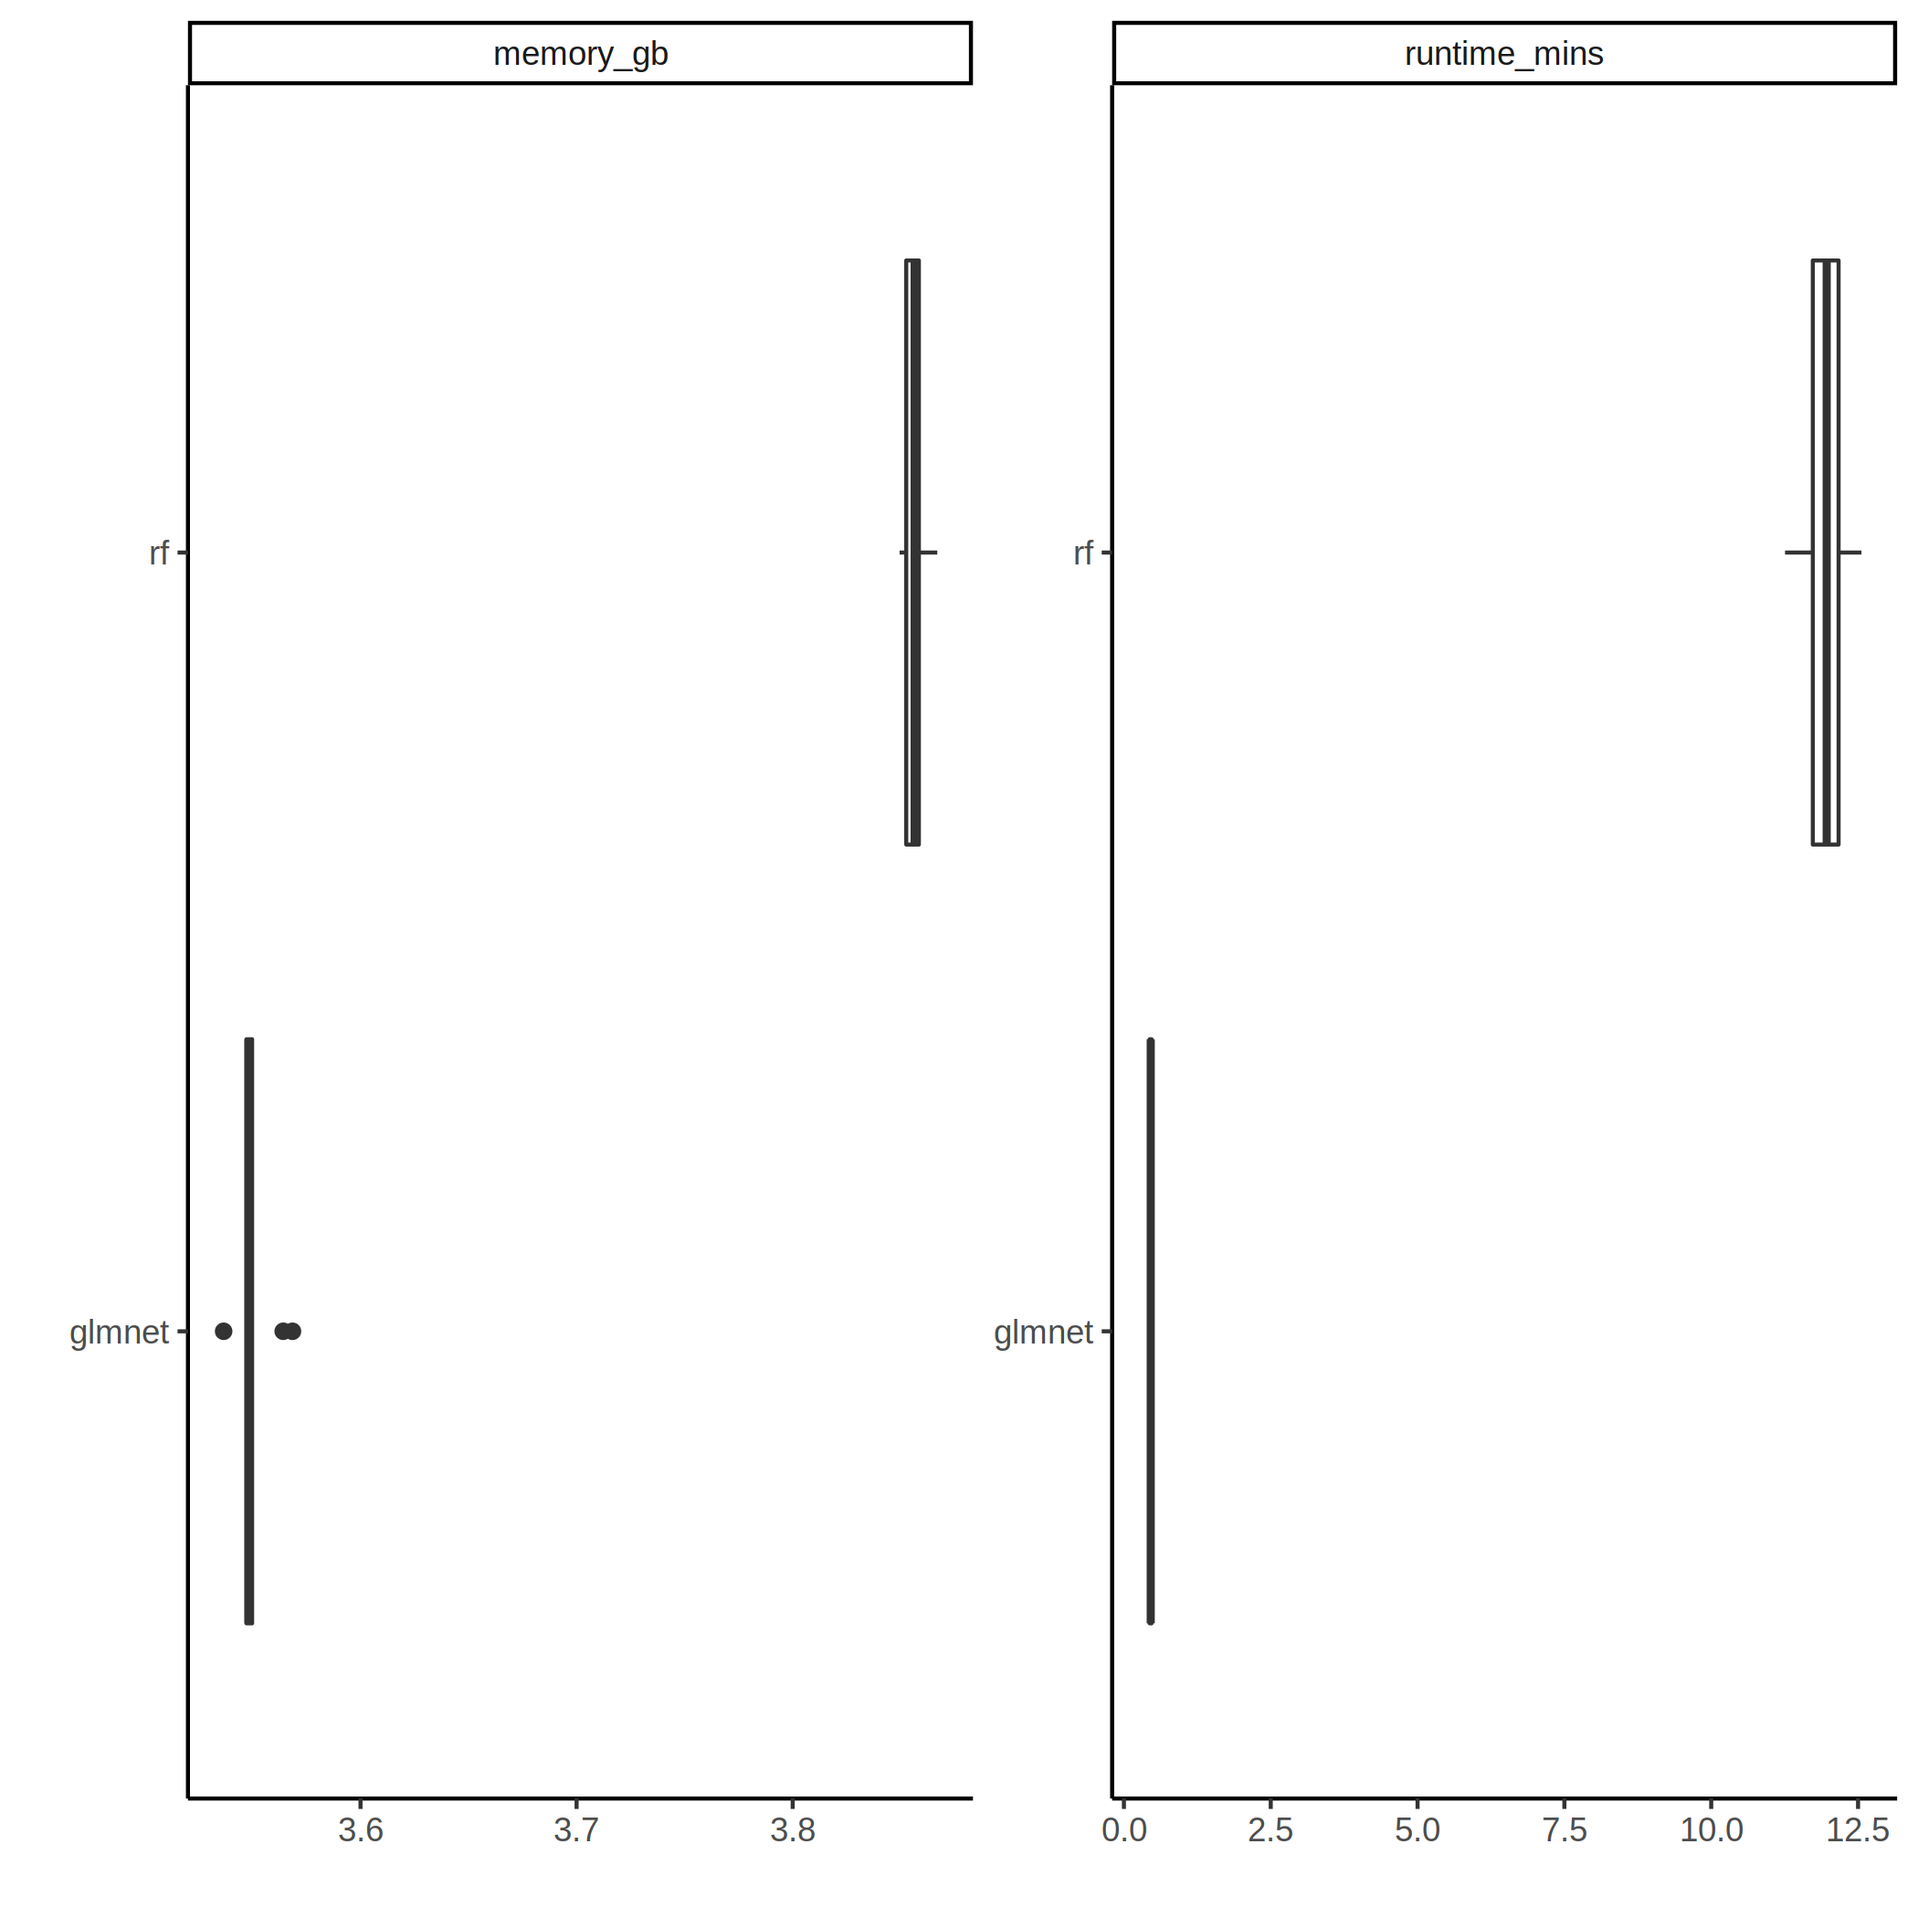
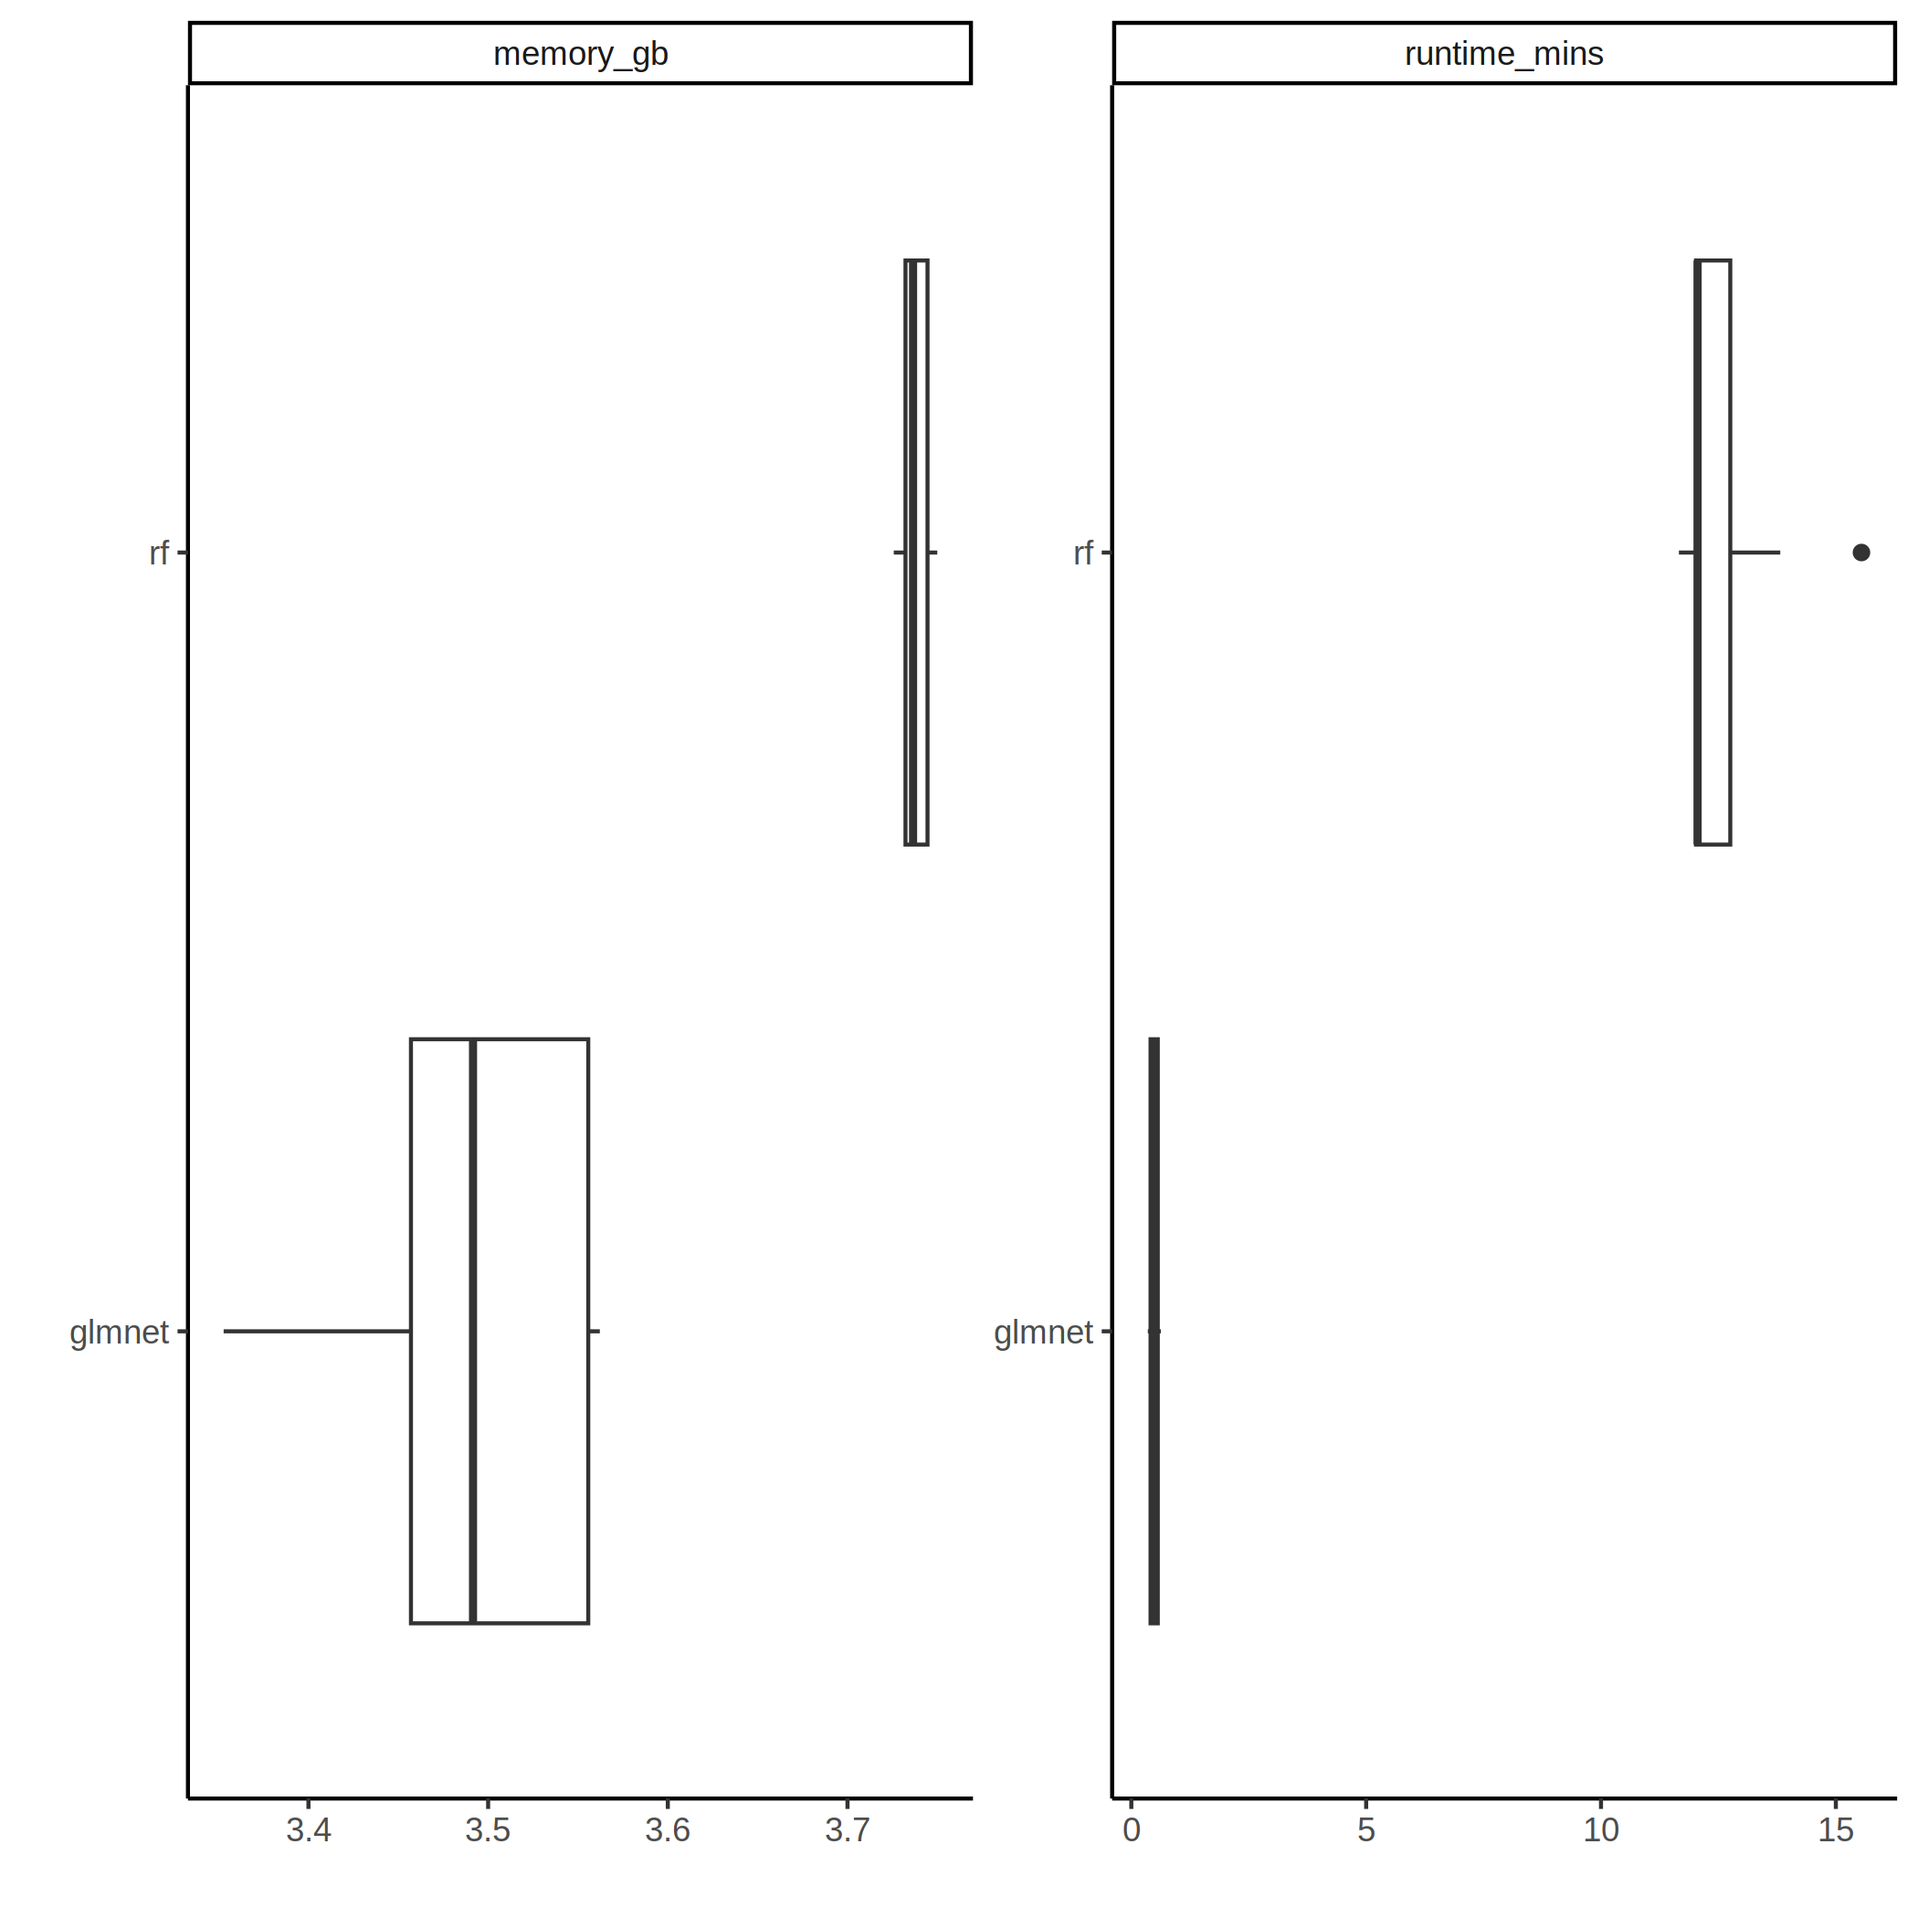
Re-run example on GL

diff --git a/report-example.md b/report-example.md
@@ -1,14 +1,21 @@
 ML Results
 ================
-2022-11-02
+2023-01-20
 
 Machine learning algorithms used were glmnet and rf. Models were trained
 with 10 different random partitions of the otu-large dataset into
-training and testing sets using 5-fold cross validation.
+training and testing sets using 5-fold cross validation. See
+`config/config.yaml` for the full configuration.
+
+## Workflow
+
+<img src="figures/example/rulegraph.png" width="80%" />
 
 ## Model Performance
 
 <img src="figures/example/performance.png" width="80%" />
+
+<img src="figures/example/roc_curves.png" width="80%" />
 
 ## Feature Importance
 
